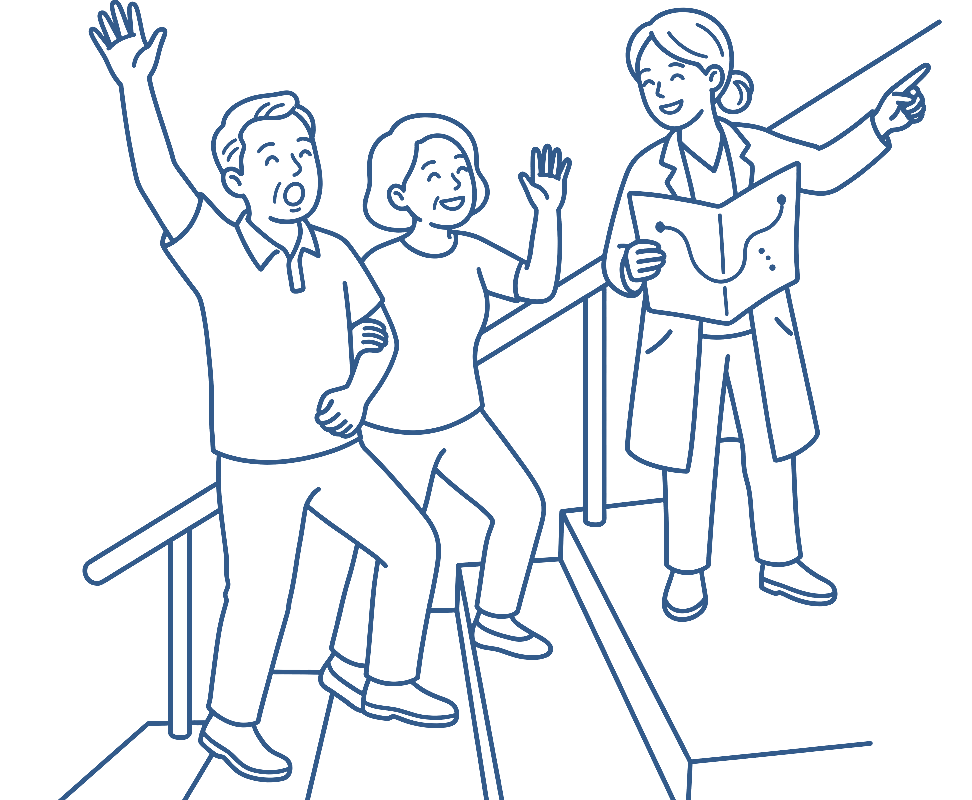
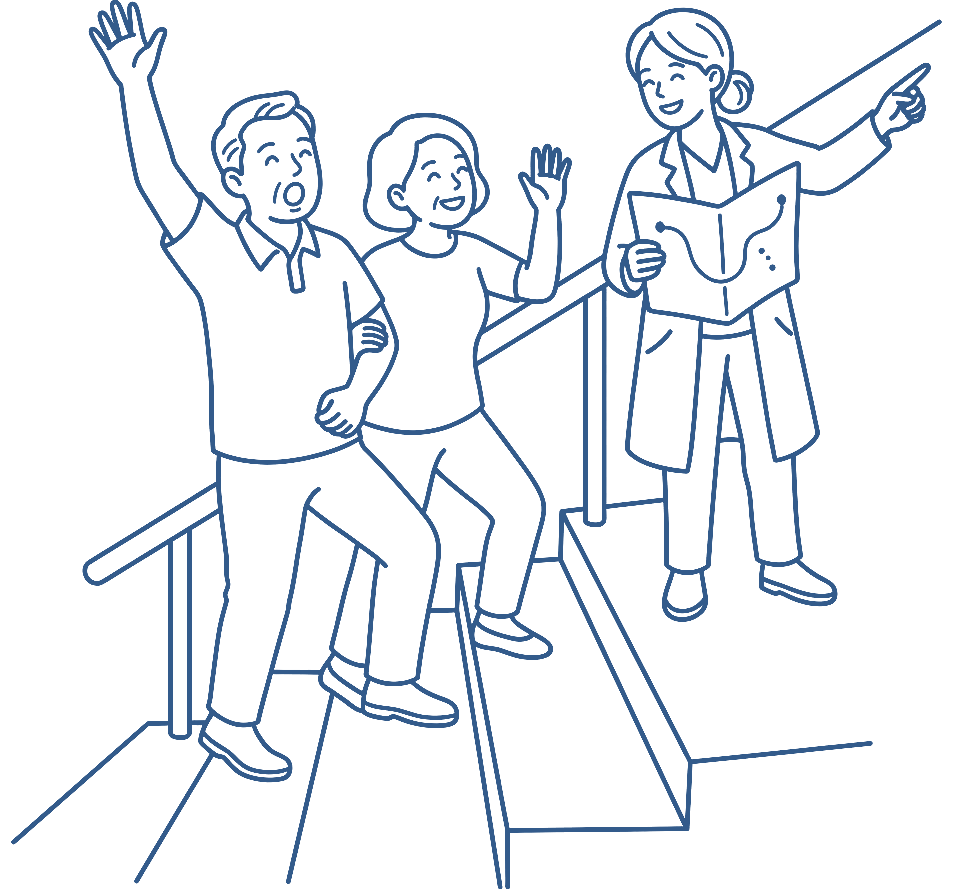
植牙線稿：把下面被裁掉的 88 列畫面帶回來（最底下幾階與扶手的腳），裁切改 36,83,972,896
原圖的墨到 y=971，前一版只裁到 883。四邊改成左 11／右 32／上 0／下 7px，
沒有一邊切到墨。aspect-ratio 972/896，十二個寬度重驗：介紹區高度與關掉圖
逐格相同、無水平捲動、每一格都收在介紹區裡。

⚠ 「線稿一定會多畫一條地面線」這一張不適用：y=910~914 那條橫線是最底下
那一階的階緣，裁掉就少一階。

diff --git a/preview/topic-lineart-prosth/index.html b/preview/topic-lineart-prosth/index.html
@@ -4833,18 +4833,20 @@ body[data-topic] #topics { padding-top: 1rem; }
    ⚠⚠ 這一科的柔墨 AA 上限是 **.097 ＝ 六科裡最緊的一支**（一般牙科 .100／牙周 .115／
      顯微根管 .107／兒牙 .152／矯正 .120），成因是 #335b8b 是六支套色裡最深的。
      手機那一段大概只能給到 .09~.10，先擺 .097 等使用者在自己手機上挑。
-   ⚠ 圖是橫的（928×800），做法照顯微根管／矯正那一套（contain ＋ right/bottom 0）。
-   ⚠ **有 --flip**：生成的線稿裡三個人朝右上（朝版心外），翻轉之後朝左上 ＝ 朝著頁面文字，
-     醫師手指的方向也跟著指回版心。
+   ⚠ 圖是橫的（972×896），做法照顯微根管／矯正那一套（contain ＋ right/bottom 0）。
    ⚠ 這一張是七科裡唯一**畫到腳**的（「正在登階」靠腿與腳下那幾階讀出來），
-     所以人物在框裡佔的高度比別科小、線也比較多（線佔 6.96%）。
-   ⚠⚠ **裁切要在右邊留白**：原圖的墨到 x=977（畫布 1024），第一版裁到 976，
+     所以人物在框裡佔的高度比別科小、線也比較多（線佔 8.9%）。
+   ⚠⚠ **裁切要在右邊留白**：原圖的墨到 x=976（畫布 1024），第一版裁到 976，
      醫師指向右上那隻手的手指**剛好貼在邊界上，看起來像被切掉**（使用者在 iPad 上抓到）。
-     現行 `--crop 36,83,972,800` 左留 11px、右留 31px，手指離邊界有距離。 */
+   ⚠⚠ **而下面原本裁掉了 88 列真的畫面**（使用者：「感覺還可以再讓被裁掉的畫面多回來一些」）——
+     原圖的墨到 y=971，第二版只裁到 883，最下面那幾階與扶手的腳整段不見。
+     現行 `--crop 36,83,972,896`：左留 11／右留 32／上留 0／下留 7px，**四邊都沒有切到墨**。
+     ⚠ 那條「生成的線稿一定會多畫一條地面線」的通則**這一張不適用** ——
+     y=910~914 那條橫向的密線是最底下那一階的階緣，不是地面線，裁掉就少一階。 */
 [data-topic="prosth"] .tp-intro { position: relative; }
 [data-topic="prosth"] .tp-intro::before {
   content: ""; position: absolute; right: var(--la-right, 0px); bottom: 0;
-  width: min(var(--la-pct, 92%), var(--la-w, 360px)); aspect-ratio: 972 / 800;
+  width: min(var(--la-pct, 92%), var(--la-w, 360px)); aspect-ratio: 972 / 896;
   background: url("../../assets/lineart-prosth.png") no-repeat; background-size: contain;
   background-position: calc(50% + 48px) center;
   opacity: var(--la-op, .121); pointer-events: none; z-index: 0;

diff --git a/topics/endo/index.html b/topics/endo/index.html
@@ -4833,18 +4833,20 @@ body[data-topic] #topics { padding-top: 1rem; }
    ⚠⚠ 這一科的柔墨 AA 上限是 **.097 ＝ 六科裡最緊的一支**（一般牙科 .100／牙周 .115／
      顯微根管 .107／兒牙 .152／矯正 .120），成因是 #335b8b 是六支套色裡最深的。
      手機那一段大概只能給到 .09~.10，先擺 .097 等使用者在自己手機上挑。
-   ⚠ 圖是橫的（928×800），做法照顯微根管／矯正那一套（contain ＋ right/bottom 0）。
-   ⚠ **有 --flip**：生成的線稿裡三個人朝右上（朝版心外），翻轉之後朝左上 ＝ 朝著頁面文字，
-     醫師手指的方向也跟著指回版心。
+   ⚠ 圖是橫的（972×896），做法照顯微根管／矯正那一套（contain ＋ right/bottom 0）。
    ⚠ 這一張是七科裡唯一**畫到腳**的（「正在登階」靠腿與腳下那幾階讀出來），
-     所以人物在框裡佔的高度比別科小、線也比較多（線佔 6.96%）。
-   ⚠⚠ **裁切要在右邊留白**：原圖的墨到 x=977（畫布 1024），第一版裁到 976，
+     所以人物在框裡佔的高度比別科小、線也比較多（線佔 8.9%）。
+   ⚠⚠ **裁切要在右邊留白**：原圖的墨到 x=976（畫布 1024），第一版裁到 976，
      醫師指向右上那隻手的手指**剛好貼在邊界上，看起來像被切掉**（使用者在 iPad 上抓到）。
-     現行 `--crop 36,83,972,800` 左留 11px、右留 31px，手指離邊界有距離。 */
+   ⚠⚠ **而下面原本裁掉了 88 列真的畫面**（使用者：「感覺還可以再讓被裁掉的畫面多回來一些」）——
+     原圖的墨到 y=971，第二版只裁到 883，最下面那幾階與扶手的腳整段不見。
+     現行 `--crop 36,83,972,896`：左留 11／右留 32／上留 0／下留 7px，**四邊都沒有切到墨**。
+     ⚠ 那條「生成的線稿一定會多畫一條地面線」的通則**這一張不適用** ——
+     y=910~914 那條橫向的密線是最底下那一階的階緣，不是地面線，裁掉就少一階。 */
 [data-topic="prosth"] .tp-intro { position: relative; }
 [data-topic="prosth"] .tp-intro::before {
   content: ""; position: absolute; right: 0px; bottom: 0;
-  width: min(92%, 360px); aspect-ratio: 972 / 800;
+  width: min(92%, 360px); aspect-ratio: 972 / 896;
   background: url("../../assets/lineart-prosth.png") no-repeat; background-size: contain;
   background-position: calc(50% + 48px) center;
   opacity: .121; pointer-events: none; z-index: 0;

diff --git a/topics/general/index.html b/topics/general/index.html
@@ -4833,18 +4833,20 @@ body[data-topic] #topics { padding-top: 1rem; }
    ⚠⚠ 這一科的柔墨 AA 上限是 **.097 ＝ 六科裡最緊的一支**（一般牙科 .100／牙周 .115／
      顯微根管 .107／兒牙 .152／矯正 .120），成因是 #335b8b 是六支套色裡最深的。
      手機那一段大概只能給到 .09~.10，先擺 .097 等使用者在自己手機上挑。
-   ⚠ 圖是橫的（928×800），做法照顯微根管／矯正那一套（contain ＋ right/bottom 0）。
-   ⚠ **有 --flip**：生成的線稿裡三個人朝右上（朝版心外），翻轉之後朝左上 ＝ 朝著頁面文字，
-     醫師手指的方向也跟著指回版心。
+   ⚠ 圖是橫的（972×896），做法照顯微根管／矯正那一套（contain ＋ right/bottom 0）。
    ⚠ 這一張是七科裡唯一**畫到腳**的（「正在登階」靠腿與腳下那幾階讀出來），
-     所以人物在框裡佔的高度比別科小、線也比較多（線佔 6.96%）。
-   ⚠⚠ **裁切要在右邊留白**：原圖的墨到 x=977（畫布 1024），第一版裁到 976，
+     所以人物在框裡佔的高度比別科小、線也比較多（線佔 8.9%）。
+   ⚠⚠ **裁切要在右邊留白**：原圖的墨到 x=976（畫布 1024），第一版裁到 976，
      醫師指向右上那隻手的手指**剛好貼在邊界上，看起來像被切掉**（使用者在 iPad 上抓到）。
-     現行 `--crop 36,83,972,800` 左留 11px、右留 31px，手指離邊界有距離。 */
+   ⚠⚠ **而下面原本裁掉了 88 列真的畫面**（使用者：「感覺還可以再讓被裁掉的畫面多回來一些」）——
+     原圖的墨到 y=971，第二版只裁到 883，最下面那幾階與扶手的腳整段不見。
+     現行 `--crop 36,83,972,896`：左留 11／右留 32／上留 0／下留 7px，**四邊都沒有切到墨**。
+     ⚠ 那條「生成的線稿一定會多畫一條地面線」的通則**這一張不適用** ——
+     y=910~914 那條橫向的密線是最底下那一階的階緣，不是地面線，裁掉就少一階。 */
 [data-topic="prosth"] .tp-intro { position: relative; }
 [data-topic="prosth"] .tp-intro::before {
   content: ""; position: absolute; right: 0px; bottom: 0;
-  width: min(92%, 360px); aspect-ratio: 972 / 800;
+  width: min(92%, 360px); aspect-ratio: 972 / 896;
   background: url("../../assets/lineart-prosth.png") no-repeat; background-size: contain;
   background-position: calc(50% + 48px) center;
   opacity: .121; pointer-events: none; z-index: 0;

diff --git a/topics/kids/index.html b/topics/kids/index.html
@@ -4833,18 +4833,20 @@ body[data-topic] #topics { padding-top: 1rem; }
    ⚠⚠ 這一科的柔墨 AA 上限是 **.097 ＝ 六科裡最緊的一支**（一般牙科 .100／牙周 .115／
      顯微根管 .107／兒牙 .152／矯正 .120），成因是 #335b8b 是六支套色裡最深的。
      手機那一段大概只能給到 .09~.10，先擺 .097 等使用者在自己手機上挑。
-   ⚠ 圖是橫的（928×800），做法照顯微根管／矯正那一套（contain ＋ right/bottom 0）。
-   ⚠ **有 --flip**：生成的線稿裡三個人朝右上（朝版心外），翻轉之後朝左上 ＝ 朝著頁面文字，
-     醫師手指的方向也跟著指回版心。
+   ⚠ 圖是橫的（972×896），做法照顯微根管／矯正那一套（contain ＋ right/bottom 0）。
    ⚠ 這一張是七科裡唯一**畫到腳**的（「正在登階」靠腿與腳下那幾階讀出來），
-     所以人物在框裡佔的高度比別科小、線也比較多（線佔 6.96%）。
-   ⚠⚠ **裁切要在右邊留白**：原圖的墨到 x=977（畫布 1024），第一版裁到 976，
+     所以人物在框裡佔的高度比別科小、線也比較多（線佔 8.9%）。
+   ⚠⚠ **裁切要在右邊留白**：原圖的墨到 x=976（畫布 1024），第一版裁到 976，
      醫師指向右上那隻手的手指**剛好貼在邊界上，看起來像被切掉**（使用者在 iPad 上抓到）。
-     現行 `--crop 36,83,972,800` 左留 11px、右留 31px，手指離邊界有距離。 */
+   ⚠⚠ **而下面原本裁掉了 88 列真的畫面**（使用者：「感覺還可以再讓被裁掉的畫面多回來一些」）——
+     原圖的墨到 y=971，第二版只裁到 883，最下面那幾階與扶手的腳整段不見。
+     現行 `--crop 36,83,972,896`：左留 11／右留 32／上留 0／下留 7px，**四邊都沒有切到墨**。
+     ⚠ 那條「生成的線稿一定會多畫一條地面線」的通則**這一張不適用** ——
+     y=910~914 那條橫向的密線是最底下那一階的階緣，不是地面線，裁掉就少一階。 */
 [data-topic="prosth"] .tp-intro { position: relative; }
 [data-topic="prosth"] .tp-intro::before {
   content: ""; position: absolute; right: 0px; bottom: 0;
-  width: min(92%, 360px); aspect-ratio: 972 / 800;
+  width: min(92%, 360px); aspect-ratio: 972 / 896;
   background: url("../../assets/lineart-prosth.png") no-repeat; background-size: contain;
   background-position: calc(50% + 48px) center;
   opacity: .121; pointer-events: none; z-index: 0;

diff --git a/topics/ortho/index.html b/topics/ortho/index.html
@@ -4833,18 +4833,20 @@ body[data-topic] #topics { padding-top: 1rem; }
    ⚠⚠ 這一科的柔墨 AA 上限是 **.097 ＝ 六科裡最緊的一支**（一般牙科 .100／牙周 .115／
      顯微根管 .107／兒牙 .152／矯正 .120），成因是 #335b8b 是六支套色裡最深的。
      手機那一段大概只能給到 .09~.10，先擺 .097 等使用者在自己手機上挑。
-   ⚠ 圖是橫的（928×800），做法照顯微根管／矯正那一套（contain ＋ right/bottom 0）。
-   ⚠ **有 --flip**：生成的線稿裡三個人朝右上（朝版心外），翻轉之後朝左上 ＝ 朝著頁面文字，
-     醫師手指的方向也跟著指回版心。
+   ⚠ 圖是橫的（972×896），做法照顯微根管／矯正那一套（contain ＋ right/bottom 0）。
    ⚠ 這一張是七科裡唯一**畫到腳**的（「正在登階」靠腿與腳下那幾階讀出來），
-     所以人物在框裡佔的高度比別科小、線也比較多（線佔 6.96%）。
-   ⚠⚠ **裁切要在右邊留白**：原圖的墨到 x=977（畫布 1024），第一版裁到 976，
+     所以人物在框裡佔的高度比別科小、線也比較多（線佔 8.9%）。
+   ⚠⚠ **裁切要在右邊留白**：原圖的墨到 x=976（畫布 1024），第一版裁到 976，
      醫師指向右上那隻手的手指**剛好貼在邊界上，看起來像被切掉**（使用者在 iPad 上抓到）。
-     現行 `--crop 36,83,972,800` 左留 11px、右留 31px，手指離邊界有距離。 */
+   ⚠⚠ **而下面原本裁掉了 88 列真的畫面**（使用者：「感覺還可以再讓被裁掉的畫面多回來一些」）——
+     原圖的墨到 y=971，第二版只裁到 883，最下面那幾階與扶手的腳整段不見。
+     現行 `--crop 36,83,972,896`：左留 11／右留 32／上留 0／下留 7px，**四邊都沒有切到墨**。
+     ⚠ 那條「生成的線稿一定會多畫一條地面線」的通則**這一張不適用** ——
+     y=910~914 那條橫向的密線是最底下那一階的階緣，不是地面線，裁掉就少一階。 */
 [data-topic="prosth"] .tp-intro { position: relative; }
 [data-topic="prosth"] .tp-intro::before {
   content: ""; position: absolute; right: 0px; bottom: 0;
-  width: min(92%, 360px); aspect-ratio: 972 / 800;
+  width: min(92%, 360px); aspect-ratio: 972 / 896;
   background: url("../../assets/lineart-prosth.png") no-repeat; background-size: contain;
   background-position: calc(50% + 48px) center;
   opacity: .121; pointer-events: none; z-index: 0;

diff --git a/topics/perio/index.html b/topics/perio/index.html
@@ -4833,18 +4833,20 @@ body[data-topic] #topics { padding-top: 1rem; }
    ⚠⚠ 這一科的柔墨 AA 上限是 **.097 ＝ 六科裡最緊的一支**（一般牙科 .100／牙周 .115／
      顯微根管 .107／兒牙 .152／矯正 .120），成因是 #335b8b 是六支套色裡最深的。
      手機那一段大概只能給到 .09~.10，先擺 .097 等使用者在自己手機上挑。
-   ⚠ 圖是橫的（928×800），做法照顯微根管／矯正那一套（contain ＋ right/bottom 0）。
-   ⚠ **有 --flip**：生成的線稿裡三個人朝右上（朝版心外），翻轉之後朝左上 ＝ 朝著頁面文字，
-     醫師手指的方向也跟著指回版心。
+   ⚠ 圖是橫的（972×896），做法照顯微根管／矯正那一套（contain ＋ right/bottom 0）。
    ⚠ 這一張是七科裡唯一**畫到腳**的（「正在登階」靠腿與腳下那幾階讀出來），
-     所以人物在框裡佔的高度比別科小、線也比較多（線佔 6.96%）。
-   ⚠⚠ **裁切要在右邊留白**：原圖的墨到 x=977（畫布 1024），第一版裁到 976，
+     所以人物在框裡佔的高度比別科小、線也比較多（線佔 8.9%）。
+   ⚠⚠ **裁切要在右邊留白**：原圖的墨到 x=976（畫布 1024），第一版裁到 976，
      醫師指向右上那隻手的手指**剛好貼在邊界上，看起來像被切掉**（使用者在 iPad 上抓到）。
-     現行 `--crop 36,83,972,800` 左留 11px、右留 31px，手指離邊界有距離。 */
+   ⚠⚠ **而下面原本裁掉了 88 列真的畫面**（使用者：「感覺還可以再讓被裁掉的畫面多回來一些」）——
+     原圖的墨到 y=971，第二版只裁到 883，最下面那幾階與扶手的腳整段不見。
+     現行 `--crop 36,83,972,896`：左留 11／右留 32／上留 0／下留 7px，**四邊都沒有切到墨**。
+     ⚠ 那條「生成的線稿一定會多畫一條地面線」的通則**這一張不適用** ——
+     y=910~914 那條橫向的密線是最底下那一階的階緣，不是地面線，裁掉就少一階。 */
 [data-topic="prosth"] .tp-intro { position: relative; }
 [data-topic="prosth"] .tp-intro::before {
   content: ""; position: absolute; right: 0px; bottom: 0;
-  width: min(92%, 360px); aspect-ratio: 972 / 800;
+  width: min(92%, 360px); aspect-ratio: 972 / 896;
   background: url("../../assets/lineart-prosth.png") no-repeat; background-size: contain;
   background-position: calc(50% + 48px) center;
   opacity: .121; pointer-events: none; z-index: 0;

diff --git a/topics/prosth/index.html b/topics/prosth/index.html
@@ -4833,18 +4833,20 @@ body[data-topic] #topics { padding-top: 1rem; }
    ⚠⚠ 這一科的柔墨 AA 上限是 **.097 ＝ 六科裡最緊的一支**（一般牙科 .100／牙周 .115／
      顯微根管 .107／兒牙 .152／矯正 .120），成因是 #335b8b 是六支套色裡最深的。
      手機那一段大概只能給到 .09~.10，先擺 .097 等使用者在自己手機上挑。
-   ⚠ 圖是橫的（928×800），做法照顯微根管／矯正那一套（contain ＋ right/bottom 0）。
-   ⚠ **有 --flip**：生成的線稿裡三個人朝右上（朝版心外），翻轉之後朝左上 ＝ 朝著頁面文字，
-     醫師手指的方向也跟著指回版心。
+   ⚠ 圖是橫的（972×896），做法照顯微根管／矯正那一套（contain ＋ right/bottom 0）。
    ⚠ 這一張是七科裡唯一**畫到腳**的（「正在登階」靠腿與腳下那幾階讀出來），
-     所以人物在框裡佔的高度比別科小、線也比較多（線佔 6.96%）。
-   ⚠⚠ **裁切要在右邊留白**：原圖的墨到 x=977（畫布 1024），第一版裁到 976，
+     所以人物在框裡佔的高度比別科小、線也比較多（線佔 8.9%）。
+   ⚠⚠ **裁切要在右邊留白**：原圖的墨到 x=976（畫布 1024），第一版裁到 976，
      醫師指向右上那隻手的手指**剛好貼在邊界上，看起來像被切掉**（使用者在 iPad 上抓到）。
-     現行 `--crop 36,83,972,800` 左留 11px、右留 31px，手指離邊界有距離。 */
+   ⚠⚠ **而下面原本裁掉了 88 列真的畫面**（使用者：「感覺還可以再讓被裁掉的畫面多回來一些」）——
+     原圖的墨到 y=971，第二版只裁到 883，最下面那幾階與扶手的腳整段不見。
+     現行 `--crop 36,83,972,896`：左留 11／右留 32／上留 0／下留 7px，**四邊都沒有切到墨**。
+     ⚠ 那條「生成的線稿一定會多畫一條地面線」的通則**這一張不適用** ——
+     y=910~914 那條橫向的密線是最底下那一階的階緣，不是地面線，裁掉就少一階。 */
 [data-topic="prosth"] .tp-intro { position: relative; }
 [data-topic="prosth"] .tp-intro::before {
   content: ""; position: absolute; right: 0px; bottom: 0;
-  width: min(92%, 360px); aspect-ratio: 972 / 800;
+  width: min(92%, 360px); aspect-ratio: 972 / 896;
   background: url("../../assets/lineart-prosth.png") no-repeat; background-size: contain;
   background-position: calc(50% + 48px) center;
   opacity: .121; pointer-events: none; z-index: 0;

diff --git a/topics/surg/index.html b/topics/surg/index.html
@@ -4833,18 +4833,20 @@ body[data-topic] #topics { padding-top: 1rem; }
    ⚠⚠ 這一科的柔墨 AA 上限是 **.097 ＝ 六科裡最緊的一支**（一般牙科 .100／牙周 .115／
      顯微根管 .107／兒牙 .152／矯正 .120），成因是 #335b8b 是六支套色裡最深的。
      手機那一段大概只能給到 .09~.10，先擺 .097 等使用者在自己手機上挑。
-   ⚠ 圖是橫的（928×800），做法照顯微根管／矯正那一套（contain ＋ right/bottom 0）。
-   ⚠ **有 --flip**：生成的線稿裡三個人朝右上（朝版心外），翻轉之後朝左上 ＝ 朝著頁面文字，
-     醫師手指的方向也跟著指回版心。
+   ⚠ 圖是橫的（972×896），做法照顯微根管／矯正那一套（contain ＋ right/bottom 0）。
    ⚠ 這一張是七科裡唯一**畫到腳**的（「正在登階」靠腿與腳下那幾階讀出來），
-     所以人物在框裡佔的高度比別科小、線也比較多（線佔 6.96%）。
-   ⚠⚠ **裁切要在右邊留白**：原圖的墨到 x=977（畫布 1024），第一版裁到 976，
+     所以人物在框裡佔的高度比別科小、線也比較多（線佔 8.9%）。
+   ⚠⚠ **裁切要在右邊留白**：原圖的墨到 x=976（畫布 1024），第一版裁到 976，
      醫師指向右上那隻手的手指**剛好貼在邊界上，看起來像被切掉**（使用者在 iPad 上抓到）。
-     現行 `--crop 36,83,972,800` 左留 11px、右留 31px，手指離邊界有距離。 */
+   ⚠⚠ **而下面原本裁掉了 88 列真的畫面**（使用者：「感覺還可以再讓被裁掉的畫面多回來一些」）——
+     原圖的墨到 y=971，第二版只裁到 883，最下面那幾階與扶手的腳整段不見。
+     現行 `--crop 36,83,972,896`：左留 11／右留 32／上留 0／下留 7px，**四邊都沒有切到墨**。
+     ⚠ 那條「生成的線稿一定會多畫一條地面線」的通則**這一張不適用** ——
+     y=910~914 那條橫向的密線是最底下那一階的階緣，不是地面線，裁掉就少一階。 */
 [data-topic="prosth"] .tp-intro { position: relative; }
 [data-topic="prosth"] .tp-intro::before {
   content: ""; position: absolute; right: 0px; bottom: 0;
-  width: min(92%, 360px); aspect-ratio: 972 / 800;
+  width: min(92%, 360px); aspect-ratio: 972 / 896;
   background: url("../../assets/lineart-prosth.png") no-repeat; background-size: contain;
   background-position: calc(50% + 48px) center;
   opacity: .121; pointer-events: none; z-index: 0;

diff --git a/index.html b/index.html
@@ -5326,18 +5326,20 @@ body[data-topic] #topics { padding-top: 1rem; }
    ⚠⚠ 這一科的柔墨 AA 上限是 **.097 ＝ 六科裡最緊的一支**（一般牙科 .100／牙周 .115／
      顯微根管 .107／兒牙 .152／矯正 .120），成因是 #335b8b 是六支套色裡最深的。
      手機那一段大概只能給到 .09~.10，先擺 .097 等使用者在自己手機上挑。
-   ⚠ 圖是橫的（928×800），做法照顯微根管／矯正那一套（contain ＋ right/bottom 0）。
-   ⚠ **有 --flip**：生成的線稿裡三個人朝右上（朝版心外），翻轉之後朝左上 ＝ 朝著頁面文字，
-     醫師手指的方向也跟著指回版心。
+   ⚠ 圖是橫的（972×896），做法照顯微根管／矯正那一套（contain ＋ right/bottom 0）。
    ⚠ 這一張是七科裡唯一**畫到腳**的（「正在登階」靠腿與腳下那幾階讀出來），
-     所以人物在框裡佔的高度比別科小、線也比較多（線佔 6.96%）。
-   ⚠⚠ **裁切要在右邊留白**：原圖的墨到 x=977（畫布 1024），第一版裁到 976，
+     所以人物在框裡佔的高度比別科小、線也比較多（線佔 8.9%）。
+   ⚠⚠ **裁切要在右邊留白**：原圖的墨到 x=976（畫布 1024），第一版裁到 976，
      醫師指向右上那隻手的手指**剛好貼在邊界上，看起來像被切掉**（使用者在 iPad 上抓到）。
-     現行 `--crop 36,83,972,800` 左留 11px、右留 31px，手指離邊界有距離。 */
+   ⚠⚠ **而下面原本裁掉了 88 列真的畫面**（使用者：「感覺還可以再讓被裁掉的畫面多回來一些」）——
+     原圖的墨到 y=971，第二版只裁到 883，最下面那幾階與扶手的腳整段不見。
+     現行 `--crop 36,83,972,896`：左留 11／右留 32／上留 0／下留 7px，**四邊都沒有切到墨**。
+     ⚠ 那條「生成的線稿一定會多畫一條地面線」的通則**這一張不適用** ——
+     y=910~914 那條橫向的密線是最底下那一階的階緣，不是地面線，裁掉就少一階。 */
 [data-topic="prosth"] .tp-intro { position: relative; }
 [data-topic="prosth"] .tp-intro::before {
   content: ""; position: absolute; right: 0px; bottom: 0;
-  width: min(92%, 360px); aspect-ratio: 972 / 800;
+  width: min(92%, 360px); aspect-ratio: 972 / 896;
   background: url("assets/lineart-prosth.png") no-repeat; background-size: contain;
   background-position: calc(50% + 48px) center;
   opacity: .121; pointer-events: none; z-index: 0;
